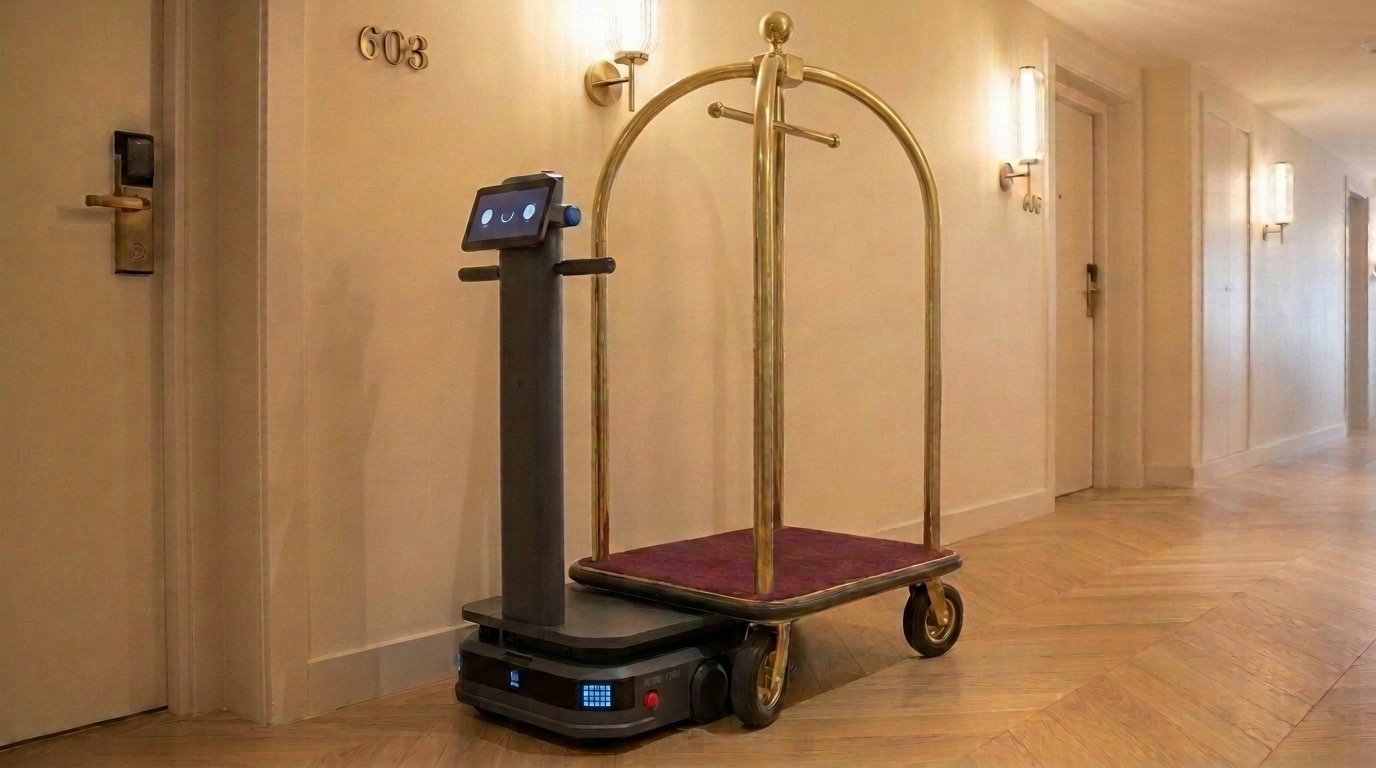
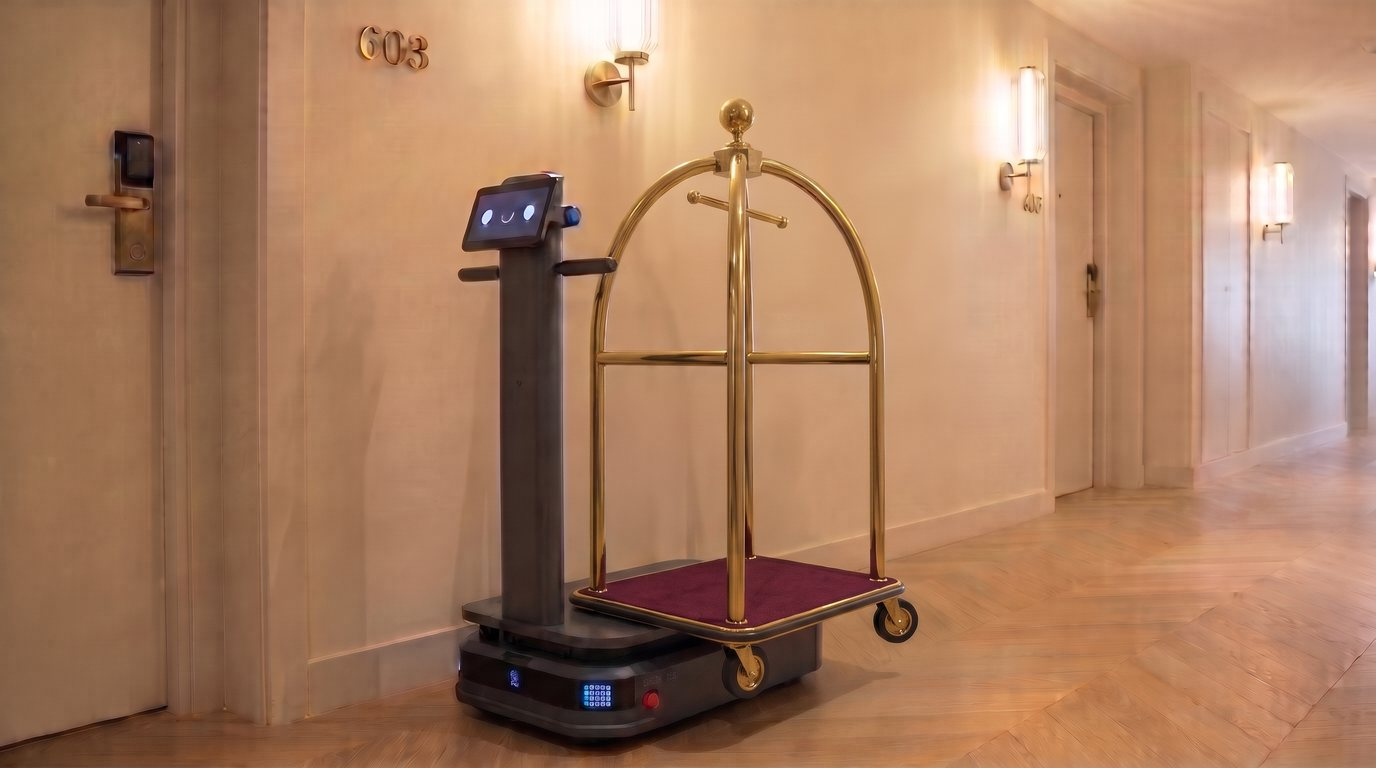
fix(deck): show the Pudu T300 fully under the lifted cart

Changed region(s): [[0.4062, 0.0, 0.7188, 1.0], [0.25, 0.0312, 0.3125, 0.0938]]

diff --git a/presentation.html b/presentation.html
@@ -797,7 +797,7 @@
       </div>
       <p class="src-n rise" style="--d:.3s">Illustration : couloir dans le style de Quartier Libre Opéra.</p>
     </div>
-    <div class="cart-img rise" style="--d:.15s"><img src="assets/deck/t300-chariot-couloir.jpg" alt="Pudu T300 sous un chariot à bagages, contre le mur d'un couloir"></div>
+    <div class="cart-img rise" style="--d:.15s"><img src="assets/deck/t300-chariot-couloir.jpg" alt="Pudu T300 glissé sous un chariot à bagages, le chariot soulevé, roues en l'air, dans un couloir"></div>
   </div>
   <div class="s-foot"><span>Loop × Quartier Libre Collection · P2 · Bagages</span><span class="n"></span></div>
 </section>
